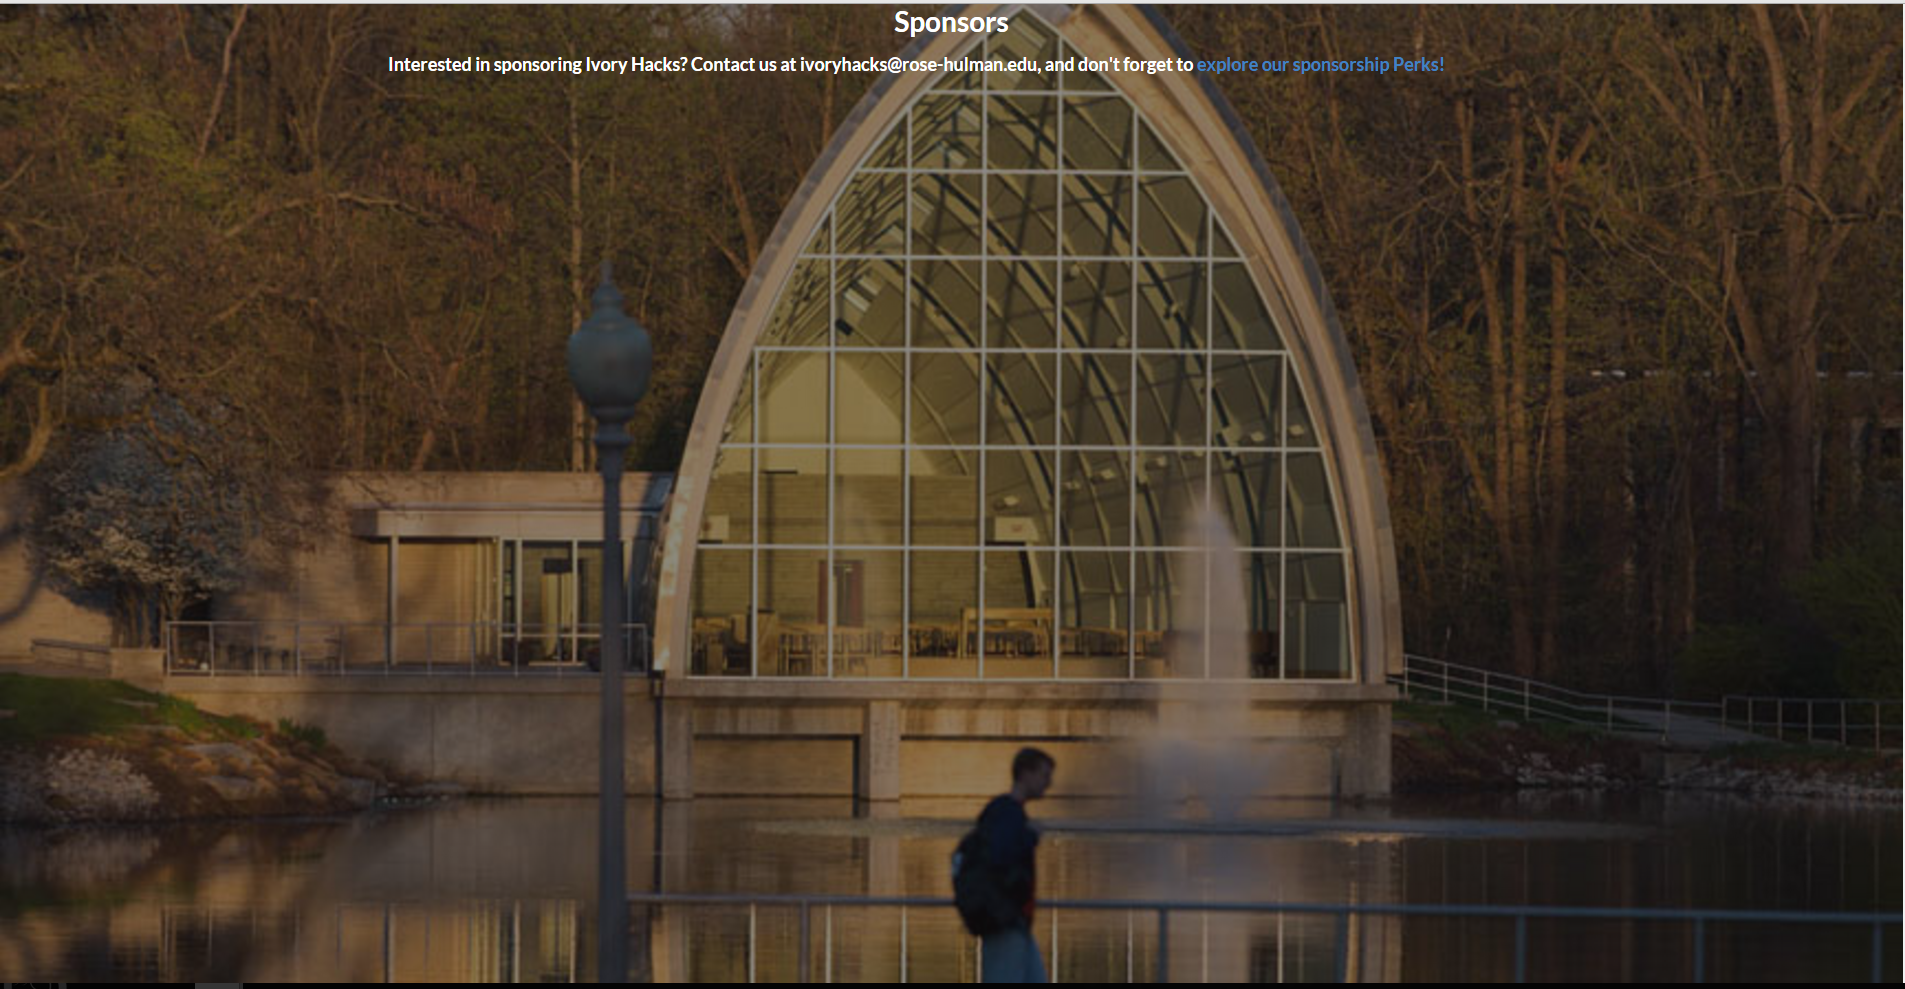
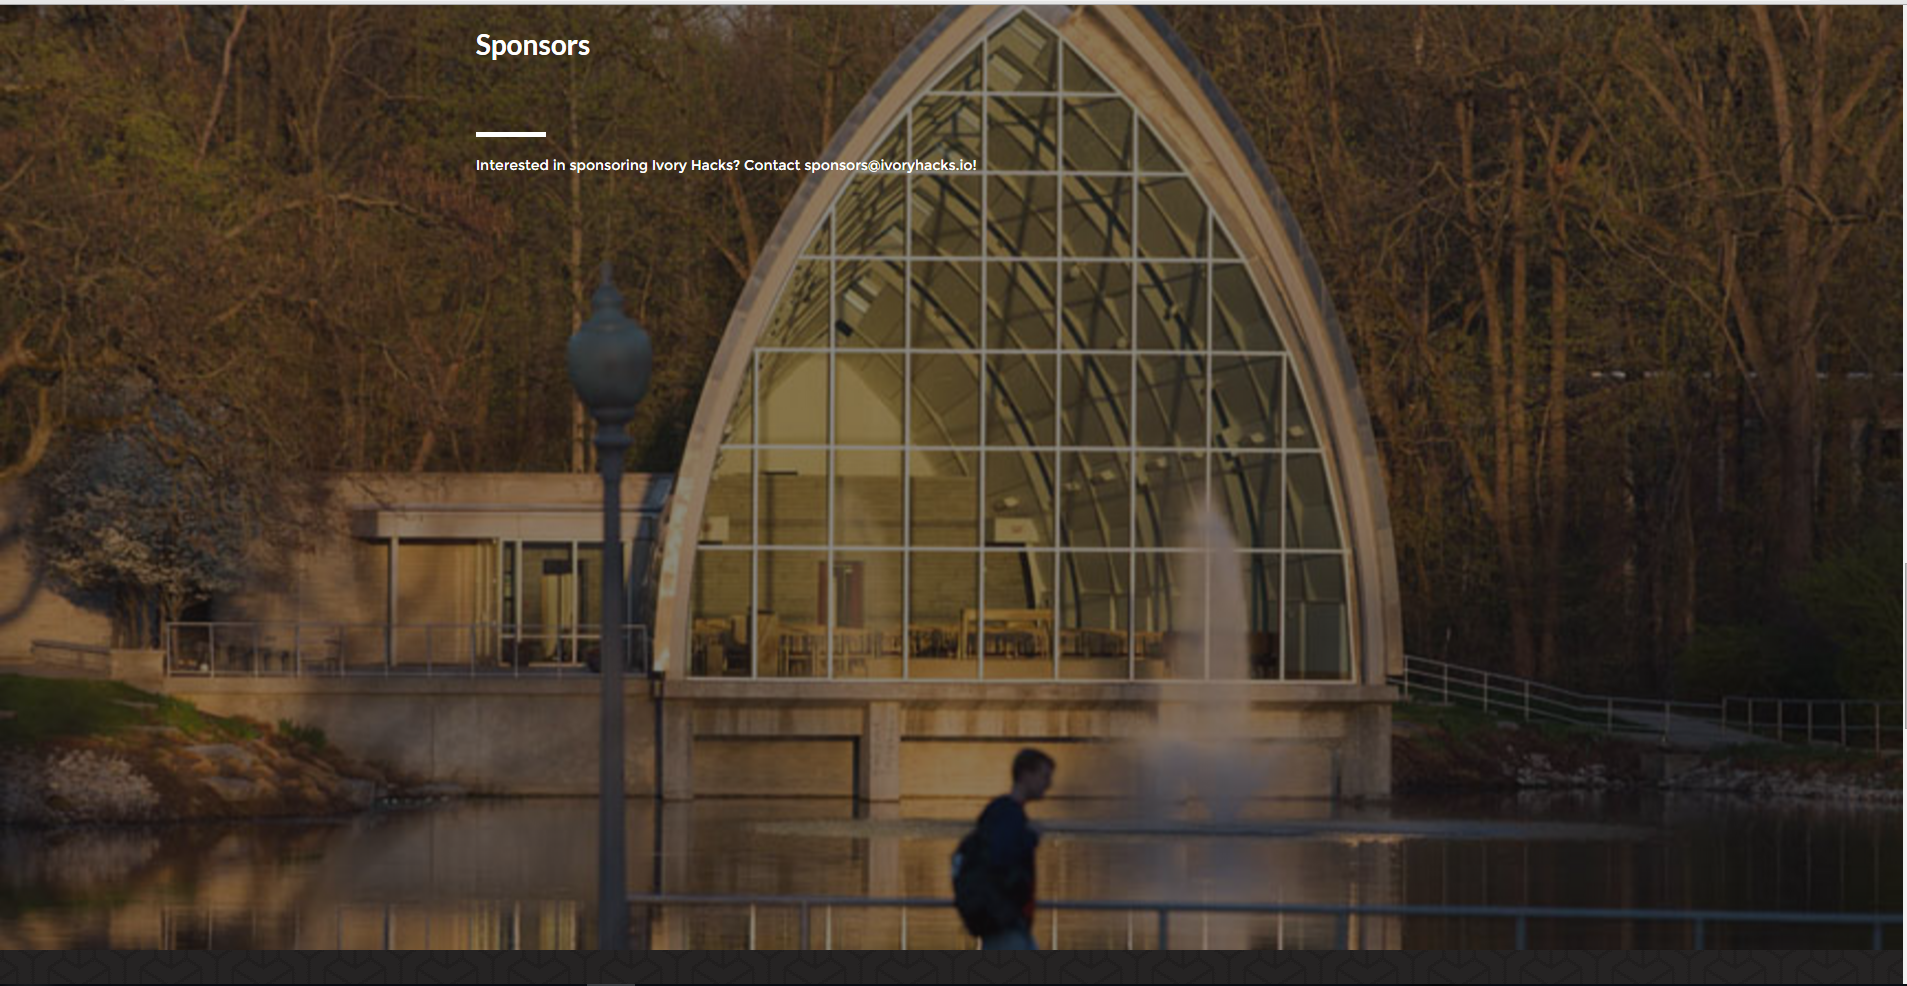
merged duplicate stuff

diff --git a/views/sponsors.html b/views/sponsors.html
@@ -1,30 +1,3 @@
-<<<<<<< HEAD
-<div class='container' id="sponsors">
-    <div class="layer2 ">
-        <h1 style="text-align: center">Sponsors</h1>
-        <div class="ui container"><h3>Interested in sponsoring Ivory Hacks? Contact us at ivoryhacks@rose-hulman.edu, and don't forget to <a href="#">explore our sponsorship Perks!</a></h3></div>
-        <div class="ui centered grid">
-            <div class="twelve wide tablet five wide computer column">
-                <!--<h2>Friday</h2>-->
-            </div>
-
-            <div class="twelve wide tablet five wide computer column">
-                <!--<h2>Saturday</h2>-->
-            </div>
-
-            <div class="twelve wide tablet five wide computer column">
-                <!--<h2>Sunday</h2>-->
-            </div>
-        </div>
-    </div>
-
-
-</div>
-
-<script>
-    $('#sponsors').height(Math.max($('#sponsors .layer2').height(), $('#sponsors').height()));
-</script>
-=======
 <div id="sponsors" class="section">
     <div class="layer2 ui centered grid">
         <div id="inner-about" class="ten wide tablet eight wide computer column">
@@ -36,4 +9,3 @@
     </div>
     <script>$('#sponsors').height(Math.max($('#sponsors .layer2').height(), $('#sponsors').height()));</script>
 </div>
->>>>>>> master

diff --git a/src/css/index.css b/src/css/index.css
@@ -210,7 +210,7 @@ body {
     margin: 10px;
 }
 
-<<<<<<< HEAD
+
 /*---------- Sponsors -------------- */
 #sponsors {
     /*background-color: #A7BCD6;*/
@@ -222,6 +222,15 @@ body {
     -o-background-size: cover;
     background-size: cover;
 }
+
+#sponsors .layer2 {
+    color: #FFFFFF;
+}
+
+#sponsors h1 {
+    padding: 2em 0;
+}
+
 
 /*---------- Map -------------- */
 #map iframe {
@@ -235,38 +244,4 @@ body {
     width: 100%;
     min-height: 100vh;
     background: url('/images/escheresque_ste_@2X.png') repeat center center fixed;
-    /*-webkit-background-size: cover;*/
-    /*-moz-background-size: cover;*/
-    /*-o-background-size: cover;*/
-    /*background-size: cover;*/
-=======
-/*-------------------- Sponsors ----------------------------------*/
-#sponsors {
-    background-color: #d61512;
-    width: 100%;
-    min-height: 150vh;
-}
-
-#sponsors .layer2 {
-    color: #FFFFFF;
-}
-
-#sponsors h1 {
-    padding: 2em 0;
-}
-
-/*-------------------- FAQs ----------------------------------*/
-#faqs {
-    background-color: #136917;
-    width: 100%;
-    min-height: 100vh;
-}
-
-#faqs .layer2 {
-    color: #FFFFFF;
-}
-
-#faqs h1 {
-    padding: 2em 0;
->>>>>>> master
 }

diff --git a/src/js/directives.js b/src/js/directives.js
@@ -50,18 +50,17 @@ angular.module('ChopChopApp')
             restrict: 'E',
             templateUrl: '../../views/schedule.html'
         };
-<<<<<<< HEAD
+
     }).directive('faq', function() {
     return {
         restrict: 'E',
         templateUrl: '../../views/faq.html'
     };
-});
-=======
+
     }).directive('faqs', function() {
         return {
             restrict: 'E',
             templateUrl: '../../views/faqs.html'
         };
     });
->>>>>>> master
+

diff --git a/index.html b/index.html
@@ -24,16 +24,12 @@
 <challenges></challenges>
 <!--<when-and-where></when-and-where>-->
 <schedule></schedule>
-<<<<<<< HEAD
+
 <sponsors></sponsors>
 <faq></faq>
 
 <map></map>
 
-=======
-<faqs></faqs>
-<sponsors></sponsors>
->>>>>>> master
 
 <script src='src/js/css-fixing.js'></script>
 <script src="node_modules/semantic-ui/dist/semantic.min.js"></script>

diff --git a/views/account.html b/views/account.html
@@ -3,3 +3,4 @@
         <h1>Ivory Hacks</h1>
         <h2> Account Page</h2>
     </div>
+</div>
